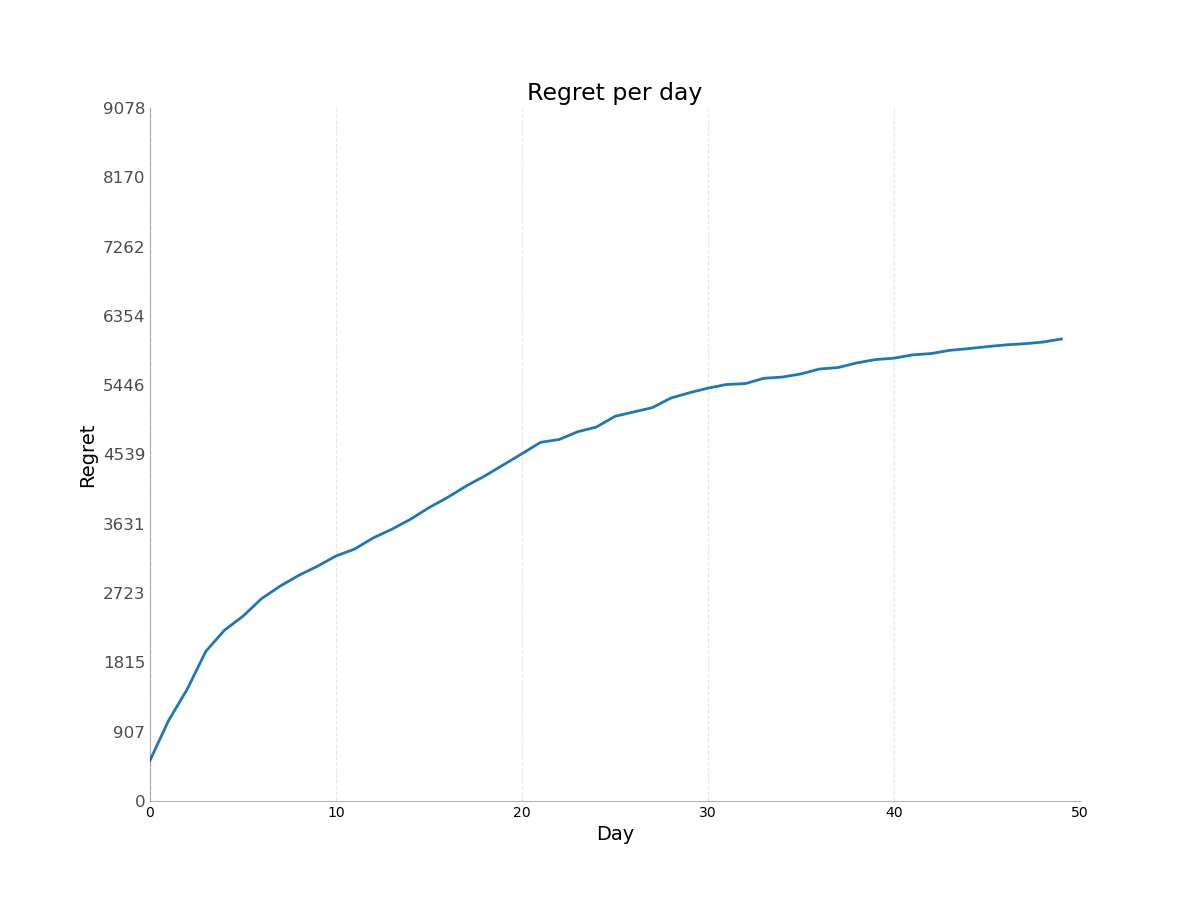
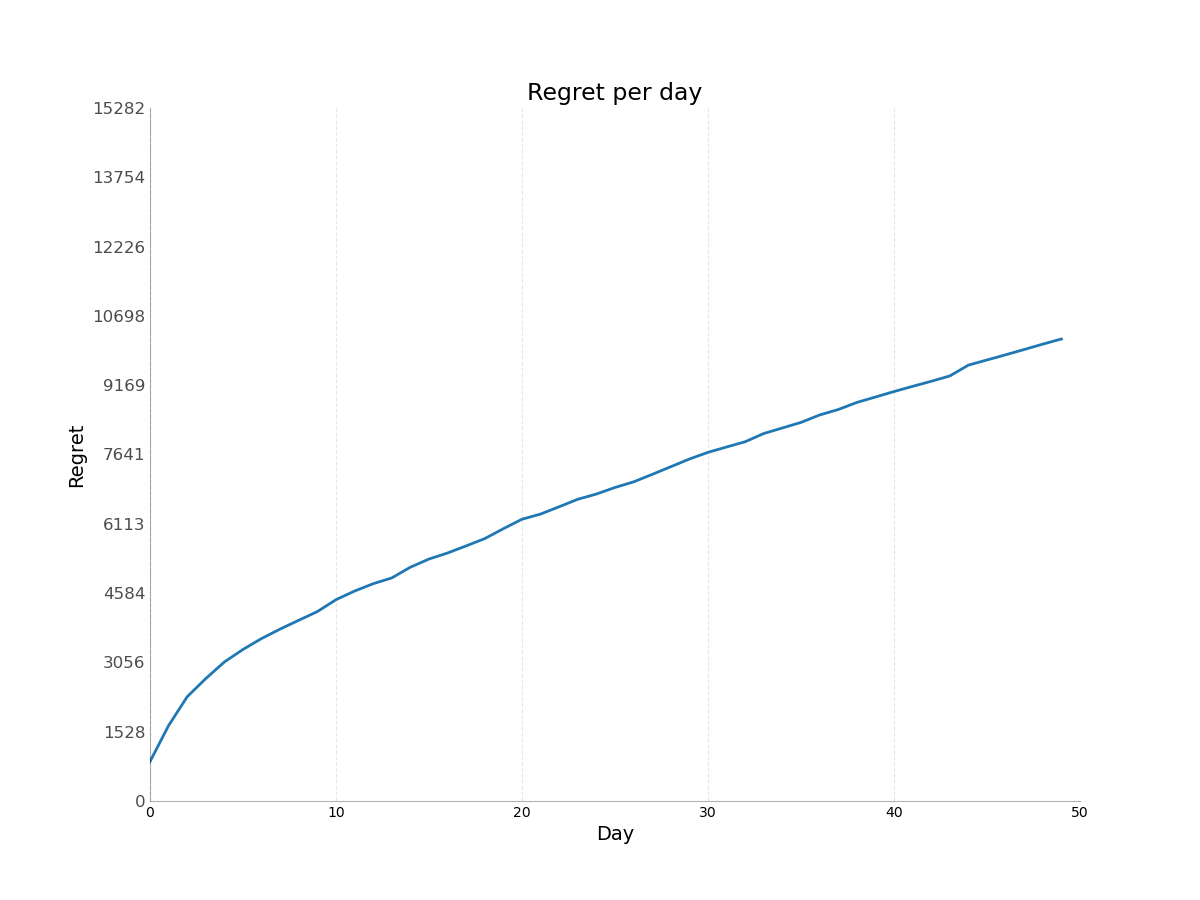
-Bugfix

diff --git a/2. GPTS Learner/Scenario.py b/2. GPTS Learner/Scenario.py
@@ -14,10 +14,6 @@ class Scenario:
         count_df = self.df.groupby(['Ad_campaign', 'Budget']).count()
         self.y = count_df.loc[campaign].price.values
 
-        self.y = np.append(0, self.y)
-        self.y = np.append(0, self.y)
-        self.y = np.append(0, self.y)
-
         self.var = var
 
     def play_round(self, daily_budget_index):

diff --git a/2. GPTS Learner/experiment.py b/2. GPTS Learner/experiment.py
@@ -13,7 +13,6 @@ number_of_experiments = 10
 # The budget cap and the possible daily budget that can be set
 budget_cap = 19000
 daily_budgets = np.linspace(5000, budget_cap, endpoint=True, num=29).astype(int)
-print(daily_budgets)
 
 # The number of possible budgets that can be allocated to each subcampaign
 number_of_budgets = 11
